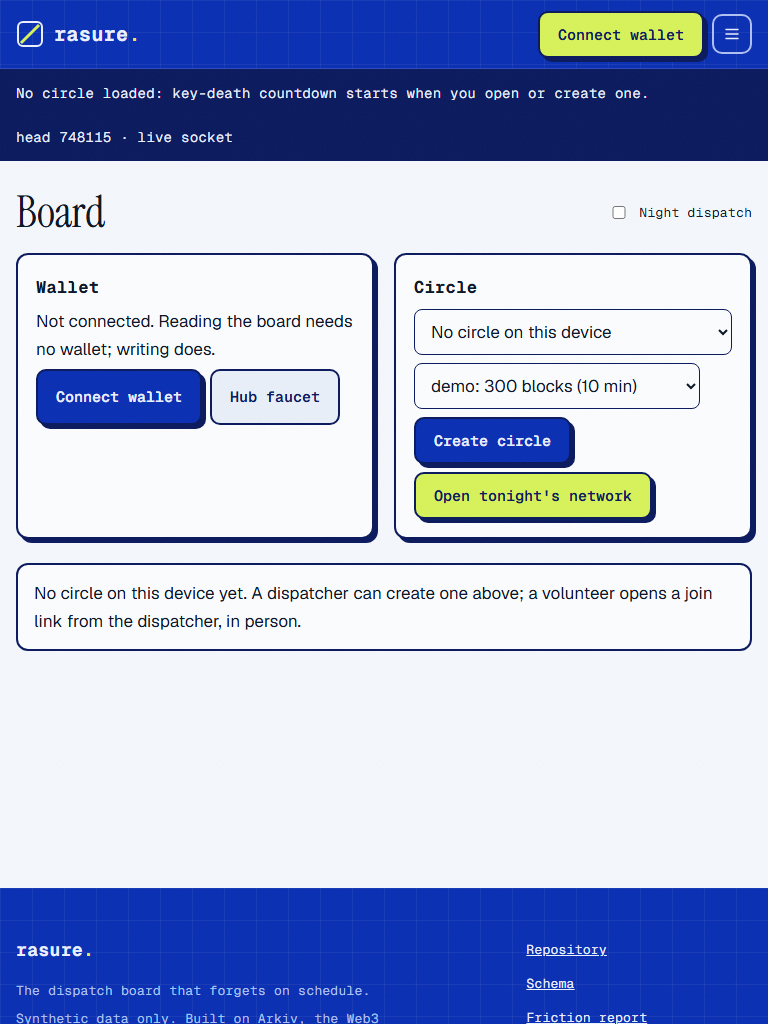
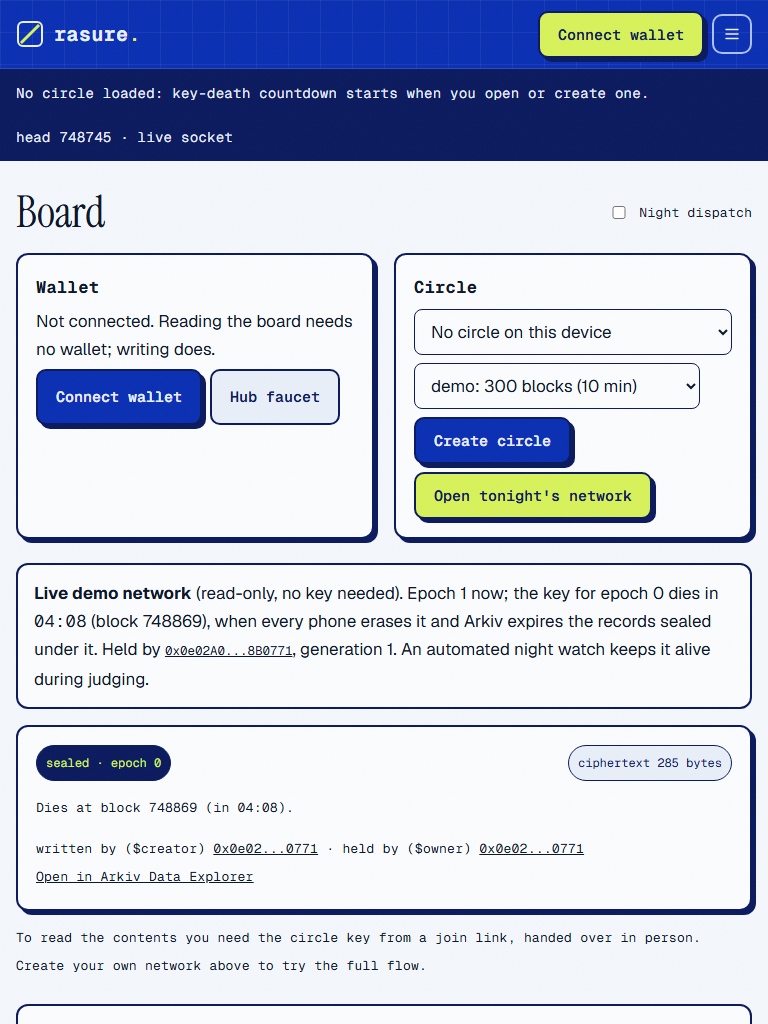
Red team log round 2, progress

Changed region(s): [[0.0, 0.5625, 1.0, 1.0], [0.9688, 0.625, 1.0, 0.6562]]

diff --git a/REDTEAM_LOG.md b/REDTEAM_LOG.md
@@ -7,3 +7,8 @@
 
 ## Round 2 (2026-10-18, two roles on the live URL and repository)
 Results recorded below after the reviewers finished.
+
+Round 2 findings and fixes:
+- Judge on the live URL: empty /board (now a read-only live demo view with countdown), "[object Object]" in the stranger view (fixed), stale JUDGE.md text and a /judge page that did not match it (fixed), wild-set row mislabelled as partial (now one row per window).
+- Maintainer: SDK_SURFACE.md understated the product and had stale line numbers (rewritten with live proof per row), README said the lease renews on activity (now: a button, plus the night watch), "MCP confirms every entity" (now: observed and agreed with our reader), WebSocket events were network-wide (wording corrected).
+- QA after the fixes: 18 of 18 on the changed routes against https://rasure.vercel.app; the earlier full run passed 52 of 54, the other two were a DNS blip and a stale build.

diff --git a/PROGRESS.md b/PROGRESS.md
@@ -1,6 +1,6 @@
 # PROGRESS
 
-Last update: 2026-10-18.
+Last update: 2026-10-18 (evening).
 
 ## Done and verified on Tiramisu
 - Phases 0, 1, 2 (except the demo seed, running), 3, and the app of Phase 4 and 5.
